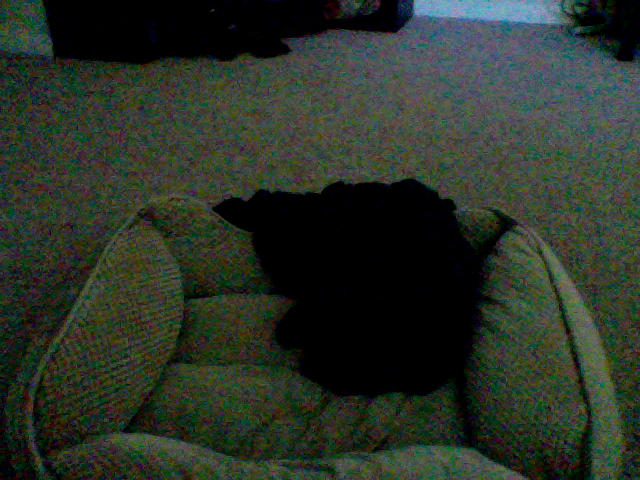
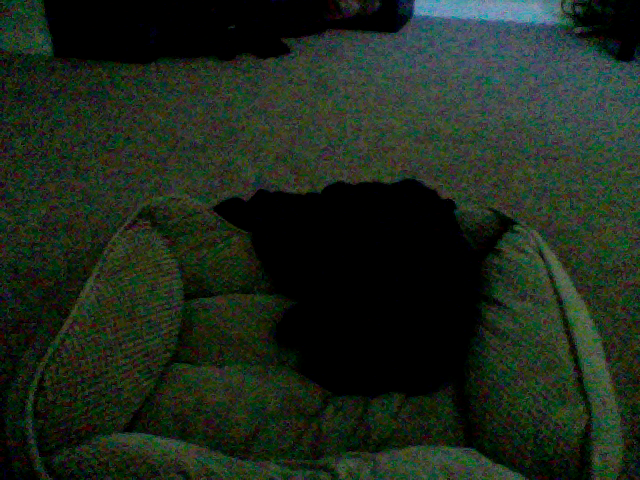
update at Month05Day08Time18:58

diff --git a/index.html b/index.html
@@ -39,8 +39,8 @@
       <!-- Example row of columns -->
       <div class="row">
         <div class="col-md-4">
-	<p>This picture was updated at Month05Day08Time18:57</p>
-		<img src="8_pic.png" />
+	<p>This picture was updated at Month05Day08Time18:58</p>
+		<img src="7_pic.png" />
         </div>
       </div>
 
